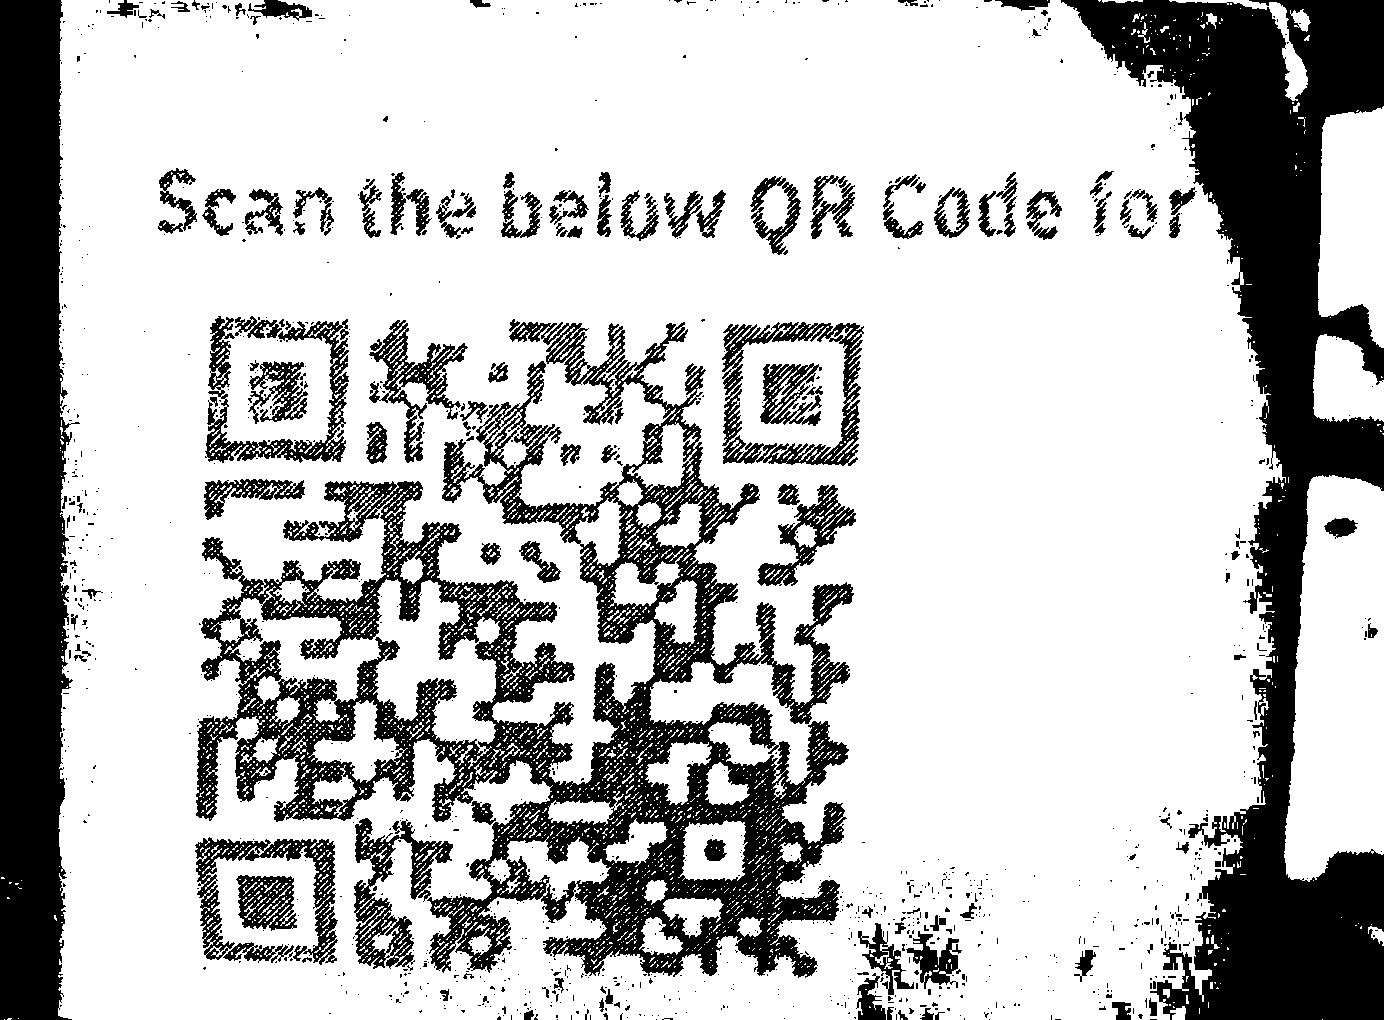
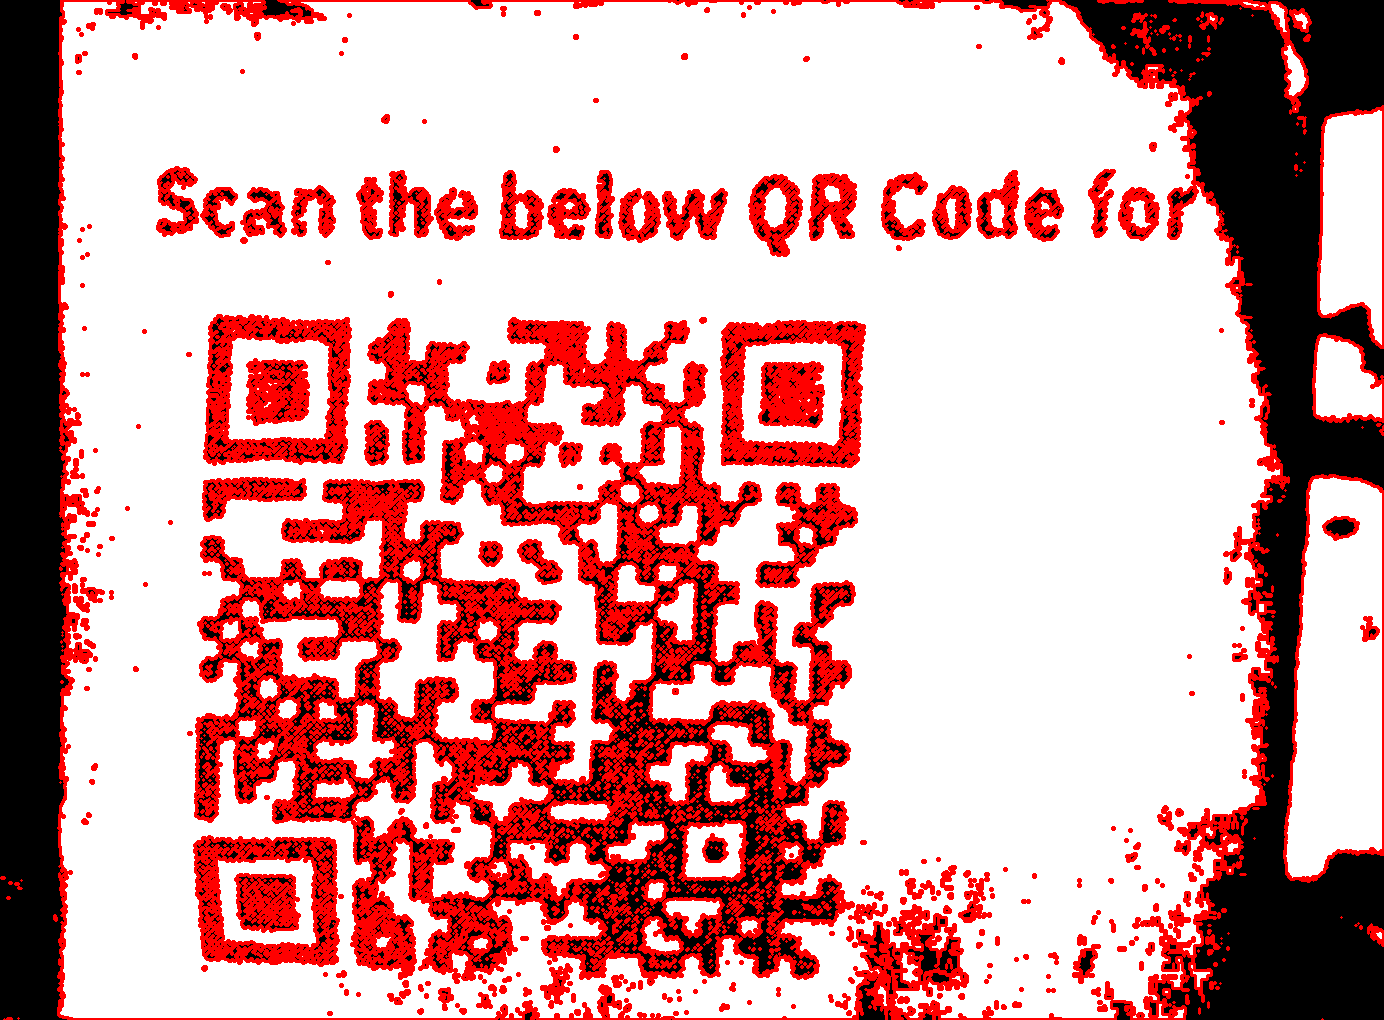
bgr contour

diff --git a/main.py b/main.py
@@ -4,7 +4,10 @@ image = cv2.imread('qr.png', cv2.IMREAD_GRAYSCALE)
 # image_gray = cv2.cvtColor(image,cv2.COLOR_BGR2GRAY)
 th, im_th_gray = cv2.threshold(image,170,255,cv2.THRESH_BINARY)
 print(th)
-cv2.imwrite('qr2.png', im_th_gray)
+contours, hierarchy = cv2.findContours(im_th_gray, cv2.RETR_TREE, cv2.CHAIN_APPROX_SIMPLE)
+im_color = cv2.cvtColor(im_th_gray, cv2.COLOR_GRAY2BGR)
+cv2.drawContours(im_color, contours, -1, (0, 0, 255), 2)
+cv2.imwrite('qr2.png', im_color)
 # otsu bad 170 b/w
 pygame.init()
 x = 500
@@ -13,7 +16,6 @@ dsp = pygame.display.set_mode((x, y))
 pygame.display.set_caption('QRFx')
 img_dp = pygame.image.load("qr2.png").convert()
 picture = pygame.transform.scale(img_dp, (x,y))
-im2, contours, hierarchy = cv2.findContours(im_th_gray, cv2.RETR_TREE, cv2.CHAIN_APPROX_SIMPLE)
 dsp.blit(picture, (0, 0))
 pygame.display.flip()
 status = True
